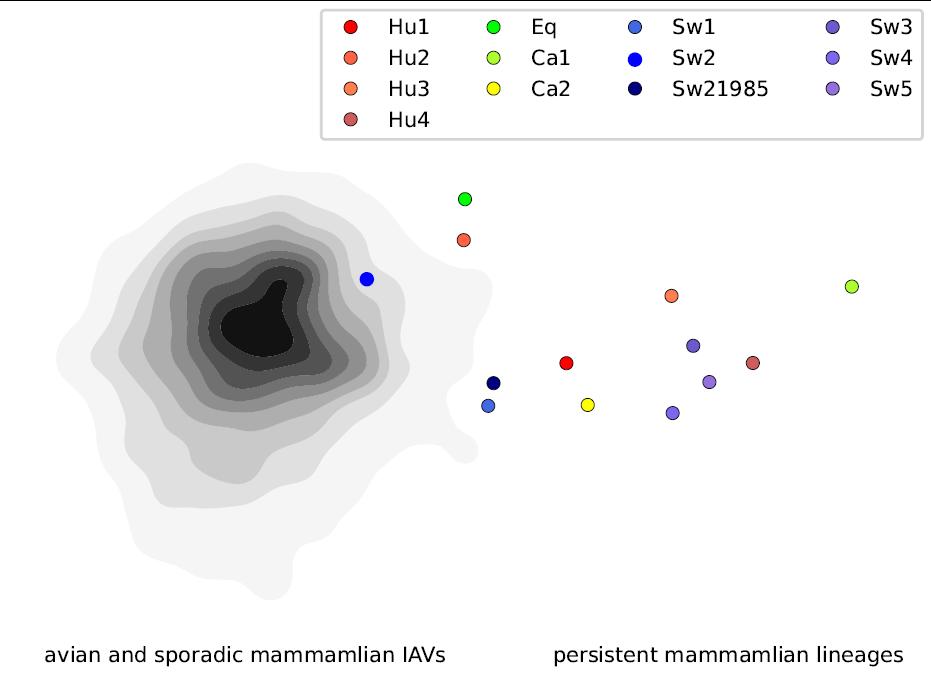
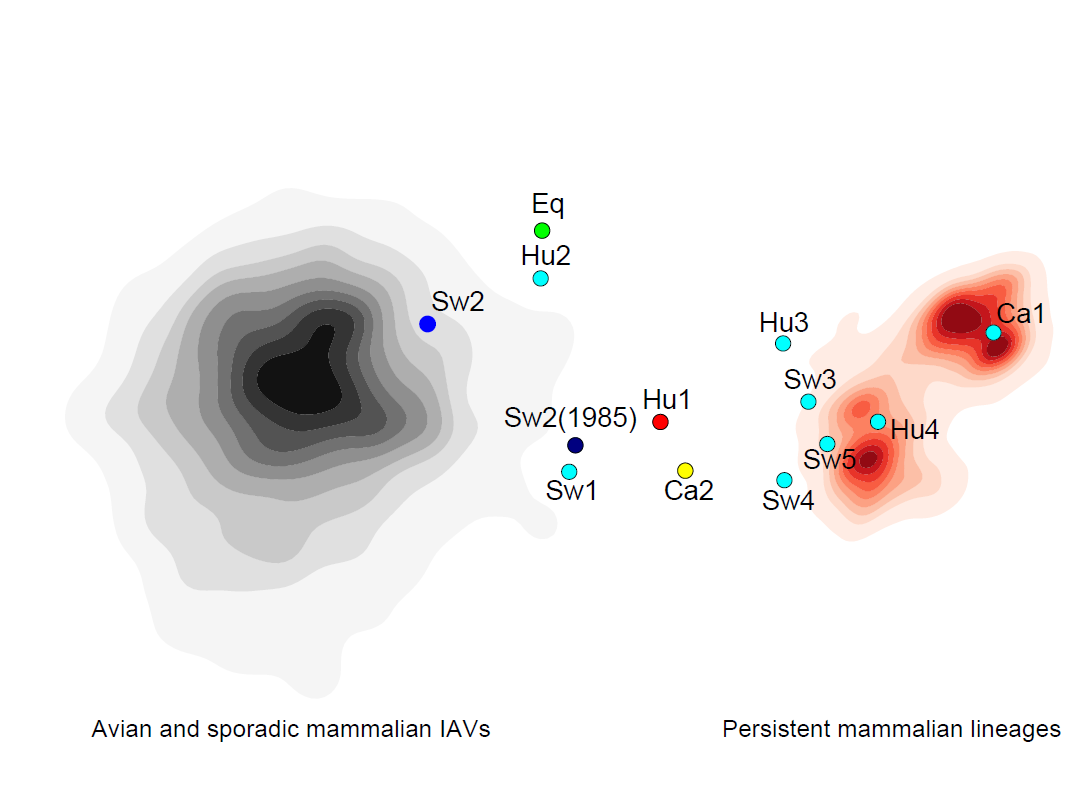
change graph bg, add graph legend, udpate style

diff --git a/src/App.svelte b/src/App.svelte
@@ -227,8 +227,8 @@
                             .map((text) => {
                                 let temp = text.split(":");
                                 return {
-                                    "Sequence meta": temp[0],
-                                    Prediction: temp[1],
+                                    "Sequence name": temp[0],
+                                    "Prediction (sustained transmission: +1, sporadic infection: -1)": temp[1],
                                 };
                             });
                         let graphResultJson =
@@ -278,14 +278,22 @@
 </script>
 
 <svelte:head>
-    <title>Prediction of sustained transmission of influenza A viruses</title>
+    <title>Prediction for sustained transmission of influenza A viruses in mammals</title>
 	<html lang="en" />
     <meta name="viewport" content="width=device-width, initial-scale=1.0">
+    <style>
+        body {
+          padding: 0px;
+        }
+      </style>
 </svelte:head>
 
 <div class="main">
-    <h1><center>Prediction for sustained transmission of influenza A viruses in mammals by a combination of GC content and CG dinucleotide by Yongtao Ye</center></h1>
-    <h2>Sequence Type</h2>
+    <h1><center>Prediction for sustained transmission of influenza A viruses in mammals</center></h1>
+    <p>
+        Upload eight protein coding regions (HA, NA, NP, PA, PB1, PB2, M1 and NS1) or eight nucleotide segments (HA, NA, NP, PA, PB1, PB2, M and NS) to assess the risk of sustained transmission in a mammalian host for a set of avian or recently zoonotic influenza A viruses.
+    </p>
+    <h2>Choose sequence type:(Protein coding region or Neucleotide segments)</h2>
     <div class="row">
         <label class="runtypebutton">
             <input
@@ -306,7 +314,7 @@
             Whole genome segments
         </label>
     </div>
-    <h2>Fasta files upload</h2>
+    <h2>Select your FASTA sequences</h2>
     <label>
         HA:
         <input type="file" accept=".fasta" bind:files={HAfile} />
@@ -339,15 +347,23 @@
         {runtype == "CDS" ? "NS1" : "NS"}:
         <input type="file" accept=".fasta" bind:files={NSfile} />
     </label>
+    <p>
+        * Sequence names of the eight protein coding regions or nucleotide segments should be the same for each influenza A virus.
+    </p>
     <button on:click={handleSubmit}>Submit</button>
     {#await promise}
         <p>File is uploading and calculating results...</p>
     {:then res}
         {#if res}
-            <p>Success, here is the result:</p>
+            <h2>Success, here is the result:</h2>
             <Table tableData={res[0]} style="blueTable" />
-            The graph below illustrate the sequence in a 2D plane. Hover the mouse on top of the red dot to see its sequence meta
-            <Graph data={res[1]} />
+            <h2>2D projection by linear discriminant analysis</h2>
+            <div class="graphContainer">
+                <Graph data={res[1]} />
+                <img class="legend" src="./legends.PNG" alt="Graph legends"/>
+            </div>
+            <p>Positions of the tested IAVs (brown points) are shown on the distributions of avian and sporadic mammalian IAVs (gray zones), and persistent mammalian lineages (red zones). Hover your mouse on the points to see their sequence names. The earliest sequences in persistent mammalian lineages are also highlighted.
+            </p>
         {/if}
     {:catch error}
         <p>Error occured: {error.message}</p>
@@ -356,9 +372,9 @@
 
 <style>
     .main {
-        width: 100%;
-        padding-bottom: 32px;
-        overflow-y: scroll;
+        width: auto;
+        height: auto;
+        padding: 32px;
         display: flex;
         flex-direction: column;
         align-items: center;
@@ -373,5 +389,22 @@
     label.runtypebutton {
         padding-left: 16px;
         padding-right: 16px;
+    }
+
+    div.graphContainer {
+        display: flex;
+        flex-direction: row;
+        justify-content: center;
+        align-items: center;
+    }
+
+    img.legend {
+        width: 482px;
+        height: 280px;
+    }
+
+    p {
+        padding-left: 128px;
+        padding-right: 128px;
     }
 </style>

diff --git a/src/Graph.svelte b/src/Graph.svelte
@@ -39,7 +39,7 @@
             cx={xScale(data.x)} 
             cy={yScale(data.y)} 
             r={6} 
-            fill="red" 
+            fill="#964B00" 
             title="{data?.name}"
             use:tooltip
         />
@@ -66,7 +66,7 @@
     }
 
     circle:hover {
-        transition: 1s;
+        transition: 0.5s;
         opacity: 1;
         z-index: 2;
     }

diff --git a/src/Table.svelte b/src/Table.svelte
@@ -1,16 +1,5 @@
 <script>
-	export let tableData = [
-			{
-				vitae : "dolorem",
-				lectus : "ipsum",
-				quisquam : "quia"
-			},
-			{
-				vitae : "amet",
-				lectus : "consectetur",
-				quisquam : "adipisci"
-			}
-		];
+	export let tableData;
 	export let style;
 </script>
 
